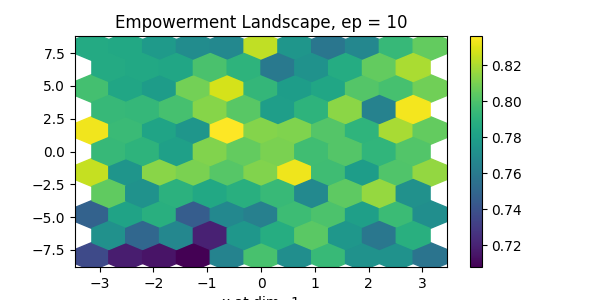
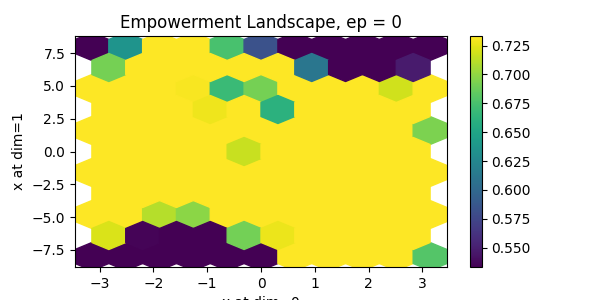
devided scripts in packages

diff --git a/empowerment/empowerment_viz.py b/empowerment/empowerment_viz.py
@@ -47,7 +47,7 @@ def visualize_empowerment_landschape_1D(empowerment, bayes_filter, replay_memory
     plt.savefig('img/empowerment_landscape.png')
 
 
-def visualize_distributions_1D(empowerment, bayes_filter, replay_memory, ep=-1):
+def visualize_source_planning_distributions_1D(empowerment, bayes_filter, replay_memory, ep=-1):
     replay_memory.reset_batchptr_train()
     x, z, e = [], [], []
     for b in range(replay_memory.n_batches_train):
@@ -88,7 +88,7 @@ def visualize_distributions_1D(empowerment, bayes_filter, replay_memory, ep=-1):
     plt.savefig('img/dist_source.png')
 
 
-def visualize_empowerment_landschape_2D(empowerment, bayes_filter, replay_memory, ep=-1):
+def visualize_empowerment_landschape_2D(empowerment, bayes_filter, replay_memory, ep=-1, args=""):
     replay_memory.reset_batchptr_train()
     x, z, e = [], [], []
     for b in range(replay_memory.n_batches_train):
@@ -97,28 +97,28 @@ def visualize_empowerment_landschape_2D(empowerment, bayes_filter, replay_memory
         u_in = torch.from_numpy(batch_dict['inputs'])[:, :bayes_filter.T - 1]
         x.append(x_in)
 
-        x_, _, z_out, _ = bayes_filter.propagate_solution(x_in, u_in)
-        z_out = z_out.reshape(-1, bayes_filter.z_dim)
-        e_out = empowerment(z_out)
+        # x_, _, z_out, _ = bayes_filter.propagate_solution(x_in, u_in)
+        # z_out = z_out.reshape(-1, bayes_filter.z_dim)
+        e_out = empowerment(x_in.view(-1, x_in.shape[2]))
         e.append(e_out)
 
-        z.append(z_out)
+        # z.append(z_out)
 
     x = torch.cat(x, dim=0).numpy().reshape(-1, bayes_filter.x_dim)
     e = torch.cat(e, dim=0).numpy().reshape(-1)
-    if bayes_filter.x_dim > 2:
+    if bayes_filter.sys == 'Pendulum':
         x1 = np.arctan2(x[:, 1], x[:, 0])
         x2 = x[:, 2]
     else:
         x1 = x[:, 0]
         x2 = x[:, 1]
     fig, ax = plt.subplots(ncols=1, nrows=1, figsize=(6, 3))
-    c = ax.hexbin(x1, x2, gridsize=10, C=e[:], mincnt=1)
+    c = ax.hexbin(x1, x2, gridsize=10, C=e[:], mincnt=1, vmin=e.mean() - .1, vmax=e.mean() + .1)
     fig.colorbar(c, ax=ax)
     ax.set_title(f'Empowerment Landscape, ep = {ep}')
     ax.set_xlabel('x at dim=0')
-    ax.set_xlabel('x at dim=1')
-    plt.savefig('img/empowerment_landscape.png')
+    ax.set_ylabel('x at dim=1')
+    plt.savefig(f'img/empowerment_landscape{args}.png')
     plt.close()
 
 
@@ -172,7 +172,4 @@ def visualize_distributions_2D(empowerment, bayes_filter, replay_memory):
     plt.tight_layout()
     plt.savefig('img/dist_source.png')
     plt.close()
-
-
-
 

diff --git a/empowerment_train.py b/empowerment_train.py
@@ -14,9 +14,9 @@ from controller import Controller
 from filters.bayes_filter import BayesFilter
 from filters.bayes_filter_fully_connected import BayesFilterFullyConnected
 from filters.simple_filter import SimpleFilter
-from replay_memory import ReplayMemory
-from empowerment_check import visualize_empowerment_landschape_1D, visualize_empowerment_landschape_2D
-from bayes_filter_check import visualize_latent_space1D
+from memory.replay_memory import ReplayMemory
+from empowerment.empowerment_viz import visualize_empowerment_landschape_1D, visualize_empowerment_landschape_2D
+from filters.bayes_filter_viz import visualize_latent_space1D
 
 Record = namedtuple('Transition', ['ep', 'E'])
 
@@ -31,8 +31,9 @@ def train_empowerment(env, empowerment, bayes_filter, replay_memory, args):
         for b in range(replay_memory.n_batches_train):
             batch_dict = replay_memory.next_batch_train()
             x, u = torch.from_numpy(batch_dict["states"]), torch.from_numpy(batch_dict['inputs'])
-            _, _, z_pred, _ = bayes_filter.propagate_solution(x, u)
-            E[b, :] = empowerment.update(z_pred.reshape(-1, z_pred.shape[2]))
+            # _, _, z_pred, _ = bayes_filter.propagate_solution(x, u)
+            # E[b, :] = empowerment.update(z_pred.reshape(-1, z_pred.shape[2]))
+            E[b, :] = empowerment.update(x.reshape(-1, x.shape[2]))
 
         if i % 10 == 0:
             with torch.no_grad():
@@ -64,7 +65,7 @@ def main():
                         help='fraction of data to be witheld in validation set')
     parser.add_argument('--seq_length', type=int, default=16, help='sequence length for training')
     parser.add_argument('--batch_size', type=int, default=128, help='minibatch size')
-    parser.add_argument('--num_epochs', type=int, default=101, help='number of epochs')
+    parser.add_argument('--num_epochs', type=int, default=1001, help='number of epochs')
     parser.add_argument('--n_trials', type=int, default=2000,
                         help='number of data sequences to collect in each episode')
     parser.add_argument('--trial_len', type=int, default=16, help='number of steps in each trial')

diff --git a/filters/bayes_filter_viz.py b/filters/bayes_filter_viz.py
@@ -10,7 +10,7 @@ from sklearn.decomposition import PCA
 from filters.bayes_filter import BayesFilter
 from filters.bayes_filter_fully_connected import BayesFilterFullyConnected
 from filters.simple_filter import SimpleFilter
-from replay_memory import ReplayMemory
+from memory.replay_memory import ReplayMemory
 from controller import Controller
 from envs.env_pendulum import PendulumEnv
 from envs.env_ball_box import BallBoxEnv
@@ -137,21 +137,7 @@ def visualize_distributions_2D(bayes_filter, replay_memory):
         z_pred = z_pred.view(-1, z_pred.shape[2])
         Z.append(z_pred)
 
-        x = x.reshape(-1, x.shape[2])
-        X.append(x)
-        U.append(u.reshape(-1, u.shape[2]))
-
-    X = torch.cat(X, dim=0)
     Z = torch.cat(Z, dim=0)
-
-    fig, ax = plt.subplots(ncols=3, nrows=1, figsize=(9, 3))
-    ax[0].hist(X[:, 0].numpy(), bins=10)
-    ax[0].set_xlabel('x at dim=0')
-    ax[1].hist(X[:, 1].numpy(), bins=10)
-    ax[1].set_xlabel('x at dim=1')
-    ax[2].hist2d(X[:, 0].numpy(), X[:, 1].numpy())
-    plt.tight_layout()
-    plt.savefig('img/dist_x.png')
 
     fig, ax = plt.subplots(ncols=2, nrows=1, figsize=(6, 3))
     ax[0].hist(Z[:, 0].numpy(), bins=10)
@@ -272,7 +258,7 @@ def plot_trajectory(bayes_filter, replay_memory, ep=-1):
 
 def main():
     from bayes_filter_train import args
-    if not os.path.exists('param'):
+    if not os.path.exists('../param'):
         print('bayes filter not trained')
 
     torch.manual_seed(0)

diff --git a/empowerment/empowerment.py b/empowerment/empowerment.py
@@ -3,7 +3,7 @@ import torch.nn as nn
 import torch.nn.functional as F
 from torch.distributions import Normal
 import torch.optim as optim
-
+from envs.env_pendulum import step
 
 class Net(nn.Module):
 
@@ -40,8 +40,8 @@ class Empowerment(nn.Module):
         self.auto_regressive = Net(self.z_dim * 2 + self.action_dim, self.action_dim, self.h_dim)
 
         self.optimizer_planning = optim.Adam(list(self.planning.parameters())
-                                    + list(self.auto_regressive.parameters()), lr=1e-4)
-        self.optimizer_source = optim.Adam(self.source.parameters(), lr=1e-5)
+                                    + list(self.auto_regressive.parameters()), lr=1e-3)
+        self.optimizer_source = optim.Adam(self.source.parameters(), lr=1e-4)
         self.planning_steps = 4
 
         self.it = 0
@@ -57,9 +57,9 @@ class Empowerment(nn.Module):
             a_ω = dist_ω.rsample()
             all_a_ω.append(a_ω.unsqueeze(1))
             all_log_prob_ω.append(dist_ω.log_prob(a_ω).unsqueeze(1))
-            z_, _ = self.transition(z_, a_ω)
-            # a_ω = torch.clamp(a_ω, -1, 1)
-            # z_ = torch.clamp(a_ω+z_, 0, 1)
+            #z_, _ = self.transition(z_, a_ω)
+            #a_ω = torch.clamp(a_ω, -1, 1)
+            z_ = step(z, a_ω)
 
         all_a_ω = torch.cat(all_a_ω, dim=1)
         all_log_prob_ω = torch.cat(all_log_prob_ω, dim=1)

diff --git a/envs/env_pendulum.py b/envs/env_pendulum.py
@@ -17,7 +17,7 @@ class PendulumEnv(gym.Env):
         self.u_max = 1.
         self.dt = .05
         self.g = g
-        self.m = .1
+        self.m = 1.
         self.l = 1.
         self.viewer = None
 
@@ -100,3 +100,23 @@ class PendulumEnv(gym.Env):
 
 def angle_normalize(x):
     return (((x+np.pi) % (2*np.pi)) - np.pi)
+
+import torch
+def step(x, u):
+    th, thdot = torch.atan2(x[:, 1], x[:, 0]).view(-1, 1), x[:, 2].view(-1, 1)  # th := theta
+
+    max_speed = 8
+    u_max = 1.
+    dt = .05
+    g = 10.0
+    m = 1.
+    l = 1.
+
+    u = torch.clamp(u, -u_max, u_max)
+
+    newthdot = thdot + (-3 * g / (2 * l) * np.sin(th + np.pi) + 3. / (m * l ** 2) * u) * dt
+    newth = th + newthdot * dt
+    newthdot = torch.clamp(newthdot, -max_speed, max_speed)
+
+    x = torch.stack((torch.cos(newth), torch.sin(newth), newthdot), dim=-1).squeeze(1)
+    return x

diff --git a/bayes_filter_train.py b/bayes_filter_train.py
@@ -8,13 +8,13 @@ import argparse
 from filters.bayes_filter import BayesFilter
 from filters.bayes_filter_fully_connected import BayesFilterFullyConnected
 from filters.simple_filter import SimpleFilter
-from replay_memory import ReplayMemory
+from memory.replay_memory import ReplayMemory
 from controller import Controller
 from envs.env_pendulum import PendulumEnv
 from envs.env_ball_box import BallBoxEnv
 from envs.env_sigmoid import SigmoidEnv
 from envs.env_sigmoid2d import Sigmoid2DEnv
-from bayes_filter_check import visualize_latent_space3D, visualize_latent_space2D, visualize_latent_space1D, \
+from filters.bayes_filter_viz import visualize_latent_space3D, visualize_latent_space2D, visualize_latent_space1D, \
                                 visualize_latent_spaceND, plot_trajectory
 
 Record = namedtuple('Record', ['ep', 'l_r', 'l_nll', 'l_k', 'c'])

diff --git a/filters/bayes_filter_fully_connected.py b/filters/bayes_filter_fully_connected.py
@@ -6,9 +6,10 @@ from filters.bayes_filter import Generator
 
 
 class BayesFilterFullyConnected(nn.Module):
-    def __init__(self, seq_length, x_dim, u_dim, z_dim, u_max):
+    def __init__(self, seq_length, x_dim, u_dim, z_dim, u_max, sys):
 
         super(BayesFilterFullyConnected, self).__init__()
+        self.sys = sys
         self.T = seq_length
         self.x_dim = x_dim
         self.u_dim = u_dim
@@ -186,7 +187,8 @@ class BayesFilterFullyConnected(nn.Module):
                      'x_dim': replay_memory.state_dim,
                      'u_dim': replay_memory.action_dim,
                      'z_dim': z_dim,
-                     'u_max': u_max}
+                     'u_max': u_max,
+                     'sys': replay_memory.env.name}
         instance = cls(**init_dict)
         instance.init_dict = init_dict
         return instance

diff --git a/filters/simple_filter.py b/filters/simple_filter.py
@@ -6,9 +6,10 @@ from filters.bayes_filter import Generator
 
 
 class SimpleFilter(nn.Module):
-    def __init__(self, seq_length, x_dim, u_dim, z_dim, u_max):
+    def __init__(self, seq_length, x_dim, u_dim, z_dim, u_max, sys):
 
         super(SimpleFilter, self).__init__()
+        self.sys = sys
         self.T = seq_length
         self.x_dim = x_dim
         self.u_dim = u_dim
@@ -159,7 +160,8 @@ class SimpleFilter(nn.Module):
                      'x_dim': replay_memory.state_dim,
                      'u_dim': replay_memory.action_dim,
                      'z_dim': z_dim,
-                     'u_max': u_max}
+                     'u_max': u_max,
+                     'sys': replay_memory.env.name}
         instance = cls(**init_dict)
         instance.init_dict = init_dict
         return instance

diff --git a/memory/memory_viz.py b/memory/memory_viz.py
@@ -1,0 +1,26 @@
+import matplotlib.pyplot as plt
+import torch
+
+
+def visualize_observation_distributions(replay_memory):
+    replay_memory.reset_batchptr_train()
+
+    X, U = [], [], []
+    for b in range(1):
+        batch_dict = replay_memory.next_batch_train()
+        x, u = torch.from_numpy(batch_dict["states"]), torch.from_numpy(batch_dict['inputs'])
+        x = x.reshape(-1, x.shape[2])
+        X.append(x)
+        U.append(u.reshape(-1, u.shape[2]))
+
+    X = torch.cat(X, dim=0)
+
+    fig, ax = plt.subplots(ncols=replay_memory.state_dim, nrows=1, figsize=(9, 3))
+
+    for i in range(replay_memory.state_dim):
+        ax[i].hist(X[:, 0].numpy(), bins=10)
+        ax[i].set_xlabel(f'x at dim={i}')
+
+    plt.tight_layout()
+    plt.savefig('img/dist_x.png')
+    plt.close()

diff --git a/test.py b/test.py
@@ -87,4 +87,12 @@ def main():
 
 
 if __name__ == '__main__':
-    main()
+    theta = np.linspace(-np.pi, np.pi, 16)
+    x = np.array([np.cos(theta), np.sin(theta)])
+    t = np.arctan2(x[1, :], x[0, :])
+    print(x.shape)
+    print(t.shape)
+    plt.plot(np.arange(16), t)
+    plt.plot(np.arange(16), theta)
+    plt.savefig('tmp.png')
+    #main()

diff --git a/policy_train.py b/policy_train.py
@@ -4,7 +4,7 @@ import torch
 
 from policy import Policy
 from envs.env_pendulum import PendulumEnv
-from replay_memory import ReplayMemory
+from memory.replay_memory import ReplayMemory
 from controller import Controller
 from filters.bayes_filter_fully_connected import BayesFilterFullyConnected
 
